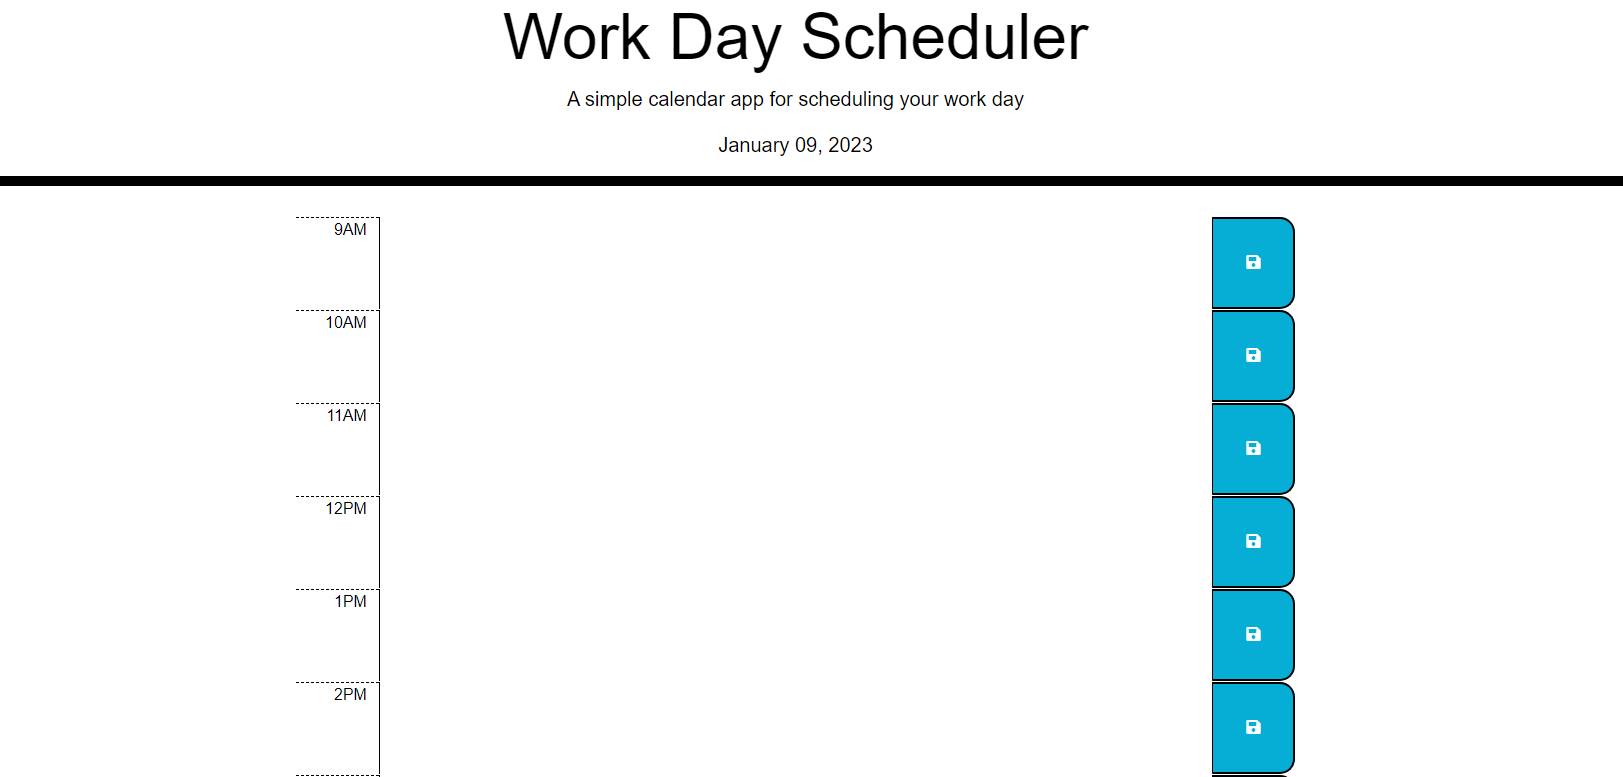
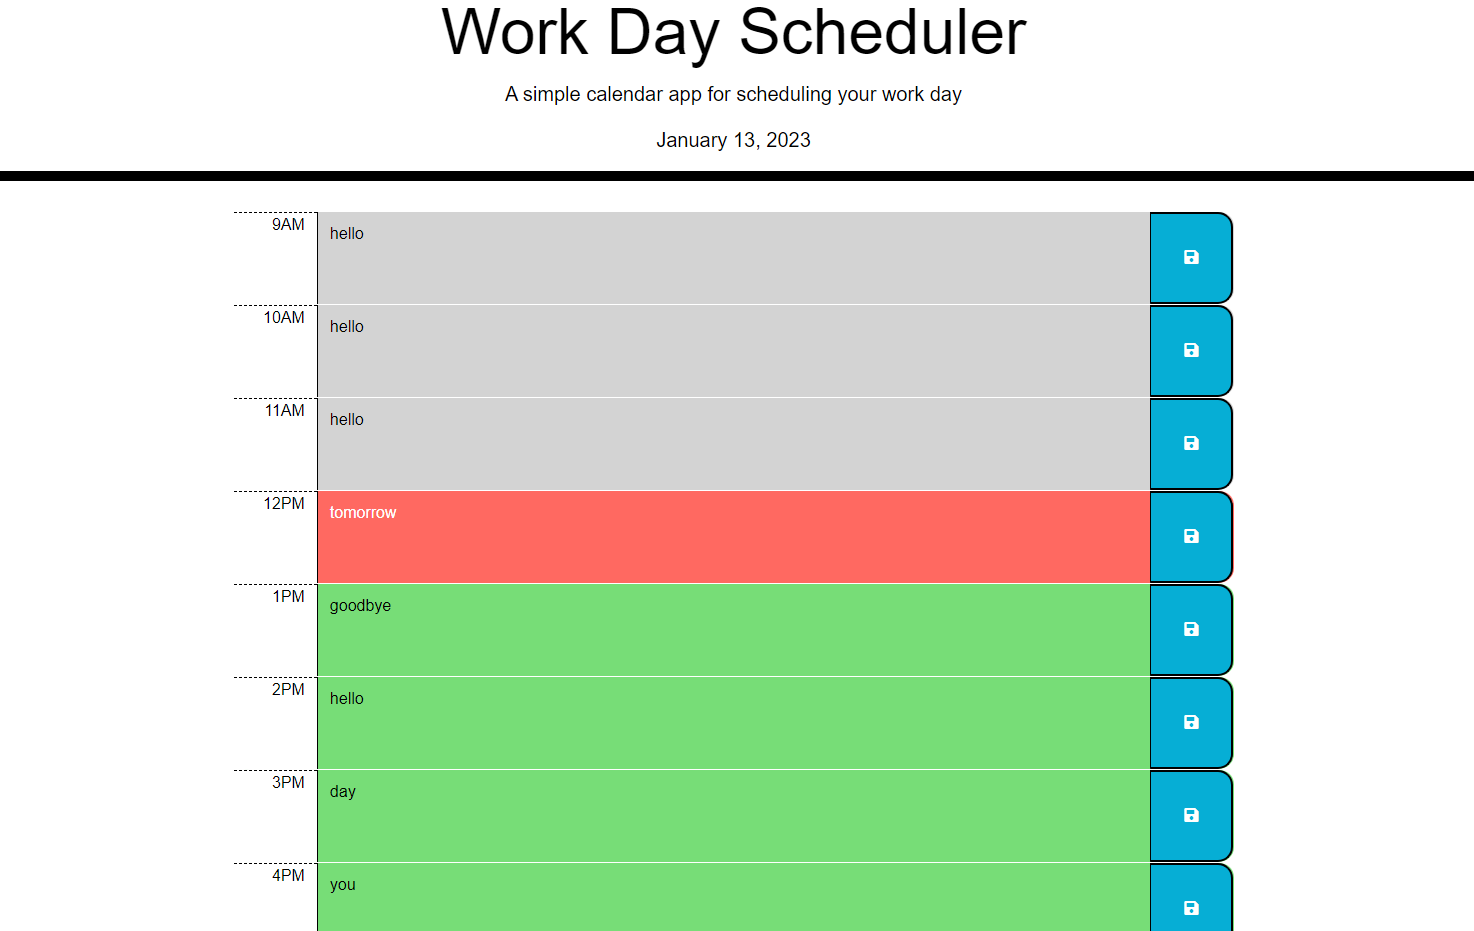
app works!

diff --git a/Develop/Javascript/script.js b/Develop/Javascript/script.js
@@ -2,15 +2,13 @@
 let today = dayjs();
 $('#currentDay').text(today.format('MMMM DD, YYYY'));
 
-/* 
-let displayDate = document.getElementById("currentDay");
-displayDate.innerHTML = now;
-let currentHour = dayjs().format("HH");
-*/
 
-//Supposed to correctly assign colors to time-div <div>
+let currentHour = parseInt(dayjs().format("HH"));
+
+
+//correctly assigns colors to time-div <div>
 $(".time-div").each(function() {
-  var timeDiv = $(this).attr("id").split("-")[1];
+  var timeDiv = parseInt($(this).attr("id").split("-")[1]);
 
   if (currentHour == timeDiv) {
       $(this).addClass("present");
@@ -26,16 +24,16 @@ $(".time-div").each(function() {
   }
 });
 
-//Suppossed to add save functionallity to save button when clicked
-$(".saveBtn").onClick(function (event) {
+//Adds save functionallity to save button when clicked
+$(".saveBtn").on('click',function (event) {
   event.preventDefault();
   var value = $(this).siblings(".time-block").val();
   var time = $(this).parent().attr("id").split("-")[1];
   localStorage.setItem(time,value);
 });
 
-// Supposed to store tasks in local storage
-$("#hour-9 .time-block").val(localStorage.getItem("09"));
+//Stores tasks in local storage
+$("#hour-9 .time-block").val(localStorage.getItem("9"));
 $("#hour-10 .time-block").val(localStorage.getItem("10"));
 $("#hour-11 .time-block").val(localStorage.getItem("11"));
 $("#hour-12 .time-block").val(localStorage.getItem("12"));

diff --git a/index.html b/index.html
@@ -110,6 +110,6 @@
     <script src="https://cdn.jsdelivr.net/npm/dayjs@1.11.3/dayjs.min.js"
       integrity="sha256-iu/zLUB+QgISXBLCW/mcDi/rnf4m4uEDO0wauy76x7U="
       crossorigin="anonymous"></script>
-    <script src="Develop/Java/script.js"></script>
+    <script src="Develop/Javascript/script.js"></script>
   </body>
 </html>
